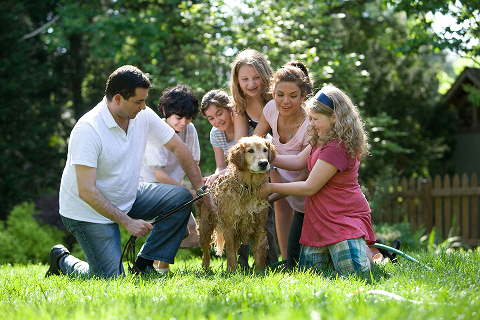
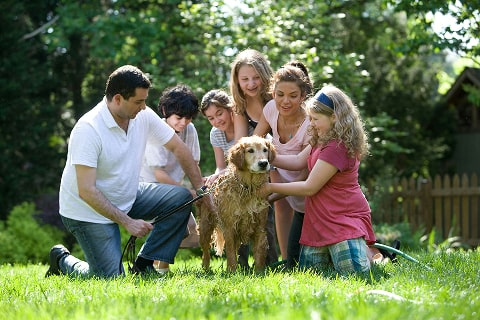
fixed carousel overflow. fixed cookies modal container stopping access to carousel buttons on small screens. optimized use of Image tags. optimized image assets

diff --git a/app/packages/page.jsx b/app/packages/page.jsx
@@ -33,35 +33,40 @@ const packages = [
     description: "Choose your favourite image to be printed at 12 x 8”.",
     price: 60,
     type: "print",
-    thumbnailPath: "/images/packages/classic.jpg"
+    thumbnailPath: "/images/packages/classic.jpg",
+    alt: "Printed photo of bride and groom"
   },
   {
     name: "Extra Large",
     description: "Choose your favourite image to be printed at 18 x 12”.",
     price: 80,
     type: "print",
-    thumbnailPath: "/images/packages/xlarge.jpg"
+    thumbnailPath: "/images/packages/xlarge.jpg",
+    alt: "Printed photo of baby hanging on wall"
   },
   {
     name: "Big Value Bundle",
     description: "Choose your favourite image to be printed at 18 x 12” plus 2 others at 12x8″.",
     price: 125,
     type: "print",
-    thumbnailPath: "/images/packages/bigvaluebundle.jpg"
+    thumbnailPath: "/images/packages/bigvaluebundle.jpg",
+    alt: "Printed photos scattered"
   },
   {
     name: "10 Pack",
     description: "Choose your ten favourite images online, in your own time and in the peace of your own home. Your chosen images will be fully retouched and supplied digitally.",
     price: 190,
     type: "digital",
-    thumbnailPath: "/images/packages/10digital.jpg"
+    thumbnailPath: "/images/packages/10digital.jpg",
+    alt: "Woman happy smiling on sofa"
   },
   {
     name: "20 Pack",
     description: "Choose your 25 favourite images online, in your own time and in the peace of your own home. Your chosen images will be fully retouched and supplied digitally.",
     price: 250,
     type: "digital",
-    thumbnailPath: "/images/packages/20digital.jpg"
+    thumbnailPath: "/images/packages/20digital.jpg",
+    alt: "Woman pleased with photos on her phone"
   },
 ];
 
@@ -76,7 +81,7 @@ export default function Packages() {
       {/*    HERO / PRINTS    */}
 
       <section className="relative text-white min-h-dvh py-40 flex flex-col gap-18 items-center justify-center">
-        <Image src="/images/packages/packages-hero.jpg" alt="test" fill={true} priority={true} className="absolute select-none brightness-50 object-cover" />
+        <Image src="/images/packages/packages-hero.jpg" alt="beautiful orange sunset over mountainous landscape" fill sizes="100vw" priority className="absolute select-none brightness-50 object-cover" />
         
         <div className="z-10 text-center w-10/12 lg:w-1/2">
           <h1 className="font-imperial-script text-2-xl mb-4">Affordable, personalized packages</h1>
@@ -99,7 +104,7 @@ export default function Packages() {
       {/*    DIGITALS    */}
 
       <section className="relative min-h-[700px] py-20 flex items-center justify-center">
-        <img src="/images/packages/packages-digital-bg.jpg" alt="" className="absolute w-full h-full object-cover select-none brightness-50" />
+        <Image placeholder="empty" fill sizes="100vw" src="/images/packages/packages-digital-bg.jpg" alt="Young family on a walk in a field" className="absolute w-full h-full object-cover select-none brightness-50" />
 
         <div className="z-10 w-10/12 lg:w-8/12 flex flex-col gap-12">
           <h1 className="font-imperial-script text-center text-2-xl text-white">Digitals</h1>

diff --git a/app/weddings/page.jsx b/app/weddings/page.jsx
@@ -42,7 +42,7 @@ export default async function Weddings() {
       {/*    HERO    */}
 
       <section className="relative text-white h-dvh md:h-[700px] flex items-center justify-center text-xl">
-        <Image src="/images/weddings/weddings-hero.jpg" alt="Bride and groom on a mountain looking towards the horizon" fill={true} priority={true} className="absolute select-none brightness-50 object-cover" />
+        <Image src="/images/weddings/weddings-hero.jpg" alt="Bride and groom on a mountain looking towards the horizon" fill sizes="100vw" priority className="absolute select-none brightness-50 object-cover" />
         <h1 className="z-10 text-2-lg text-center px-5">Jo's Wedding Photography</h1>
       </section>
 
@@ -52,8 +52,8 @@ export default async function Weddings() {
       <section className="relative z-100 flex flex-col lg:flex-row gap-10 lg:gap-0 w-10/12 -mt-40 pb-20 mx-auto">
 
         <div className="w-full lg:w-1/2">
-          <div className="w-4/5 aspect-[2/3] flex items-center justify-center mx-auto bg-gray-300 shadow-lg">
-            <img className="w-full h-full object-cover" src="/images/weddings/featured-1.jpg" alt="" />
+          <div className="w-4/5 aspect-[2/3] flex items-center justify-center mx-auto bg-gray-300 shadow-lg relative">
+            <Image placeholder="empty" fill sizes="(min-width:1024px) 50vw, (max-width:1023px) 70vw" priority className="w-full h-full object-cover" src="/images/weddings/featured-1.jpg" alt="newly wed bride and groom" />
           </div>
         </div>
 
@@ -61,8 +61,8 @@ export default async function Weddings() {
           <p>Intuition and spontaneity are two key ingredients that I believe are crucial in making a great wedding photographer - the third ingredient is experience.</p>
           <p>Experience to know how to get great shots in pouring rain and gloomy light. The experience to know where to position yourself to get key shots during a day that might have been years in the planning. The experience to know how to get the very best from you and your guests.</p>
 
-          <div className="w-full aspect-[3/2] flex items-center justify-center mx-auto bg-gray-300 shadow-lg">
-            <img className="w-full h-full object-cover" src="/images/weddings/featured-2.jpg" alt="" />
+          <div className="w-full aspect-[3/2] flex items-center justify-center mx-auto bg-gray-300 shadow-lg relative">
+            <Image placeholder="empty" fill sizes="(min-width:1024px) 50vw, (max-width:1023px) 80vw" className="w-full h-full object-cover" src="/images/weddings/featured-2.jpg" alt="newly wed bride and groom celebrating" />
           </div>
         
         </div>

diff --git a/app/testimonials/page.jsx b/app/testimonials/page.jsx
@@ -34,7 +34,7 @@ export default function Testimonials() {
       {/*    HERO    */}
 
       <section className="relative text-white min-h-[700px] flex flex-col gap-12 md:gap-6 py-40 items-center justify-center">
-        <Image src="/images/testimonials/testimonials-hero.jpg" alt="Bride and groom walking into the sunset on the beach" fill={true} priority={true} className="absolute select-none brightness-50 object-cover" />
+        <Image src="/images/testimonials/testimonials-hero.jpg" alt="Bride and groom walking into the sunset on the beach" fill sizes="100vw" priority className="absolute select-none brightness-50 object-cover" />
         <h1 className="font-imperial-script text-2-xl z-10 text-center">Hear from pleased clients</h1>
 
         <div className="z-10 w-8/12 flex flex-col md:flex-row gap-18 md:gap-0 items-center md:items-stretch justify-around">
@@ -59,8 +59,8 @@ export default function Testimonials() {
             </div>
             
             <div className="w-full md:w-1/2">
-              <div className="w-3/4 aspect-[3/2] ms-auto md:me-auto bg-gray-300 shadow-lg">
-                <img className="w-full h-full object-cover text-center text-black/30" src="/images/testimonials/featured-testimonial-1.jpg" alt="Image" />
+              <div className="w-3/4 aspect-[3/2] ms-auto md:me-auto bg-gray-300 shadow-lg relative">
+                <Image placeholder="empty" fill sizes="(min-width:1024px) 40vw, (max-width:1023px) 70vw" className="w-full h-full object-cover text-center text-black/30" src="/images/testimonials/featured-testimonial-1.jpg" alt="Family portrait around the family dog in the grass" />
               </div>
             </div>
           </div>
@@ -73,8 +73,8 @@ export default function Testimonials() {
             </div>
             
             <div className="w-full md:w-1/2">
-              <div className="w-3/4 aspect-[3/2] me-auto md:ms-auto bg-gray-300 shadow-lg">
-                <img className="w-full h-full object-cover text-center text-black/30" src="/images/testimonials/featured-testimonial-2.jpg" alt="Image" />
+              <div className="w-3/4 aspect-[3/2] me-auto md:ms-auto bg-gray-300 shadow-lg relative">
+                <Image placeholder="empty" fill sizes="(min-width:1024px) 40vw, (max-width:1023px) 70vw" className="w-full h-full object-cover text-center text-black/30" src="/images/testimonials/featured-testimonial-2.jpg" alt="Couple holding hands enjoying the outdoors" />
               </div>
             </div>
           </div>

diff --git a/app/family/page.jsx b/app/family/page.jsx
@@ -43,7 +43,7 @@ export default async function Family() {
       {/*    HERO    */}
 
       <section className="relative text-white h-dvh md:h-[700px] flex items-center justify-center text-xl">
-        <Image src="/images/family/family-hero.jpg" alt="Family lined up at the beach during sunset" fill={true} priority={true} className="absolute select-none brightness-50 object-cover" />
+        <Image src="/images/family/family-hero.jpg" alt="Family lined up at the beach during sunset" fill sizes="100vw" priority className="absolute select-none brightness-50 object-cover" />
         <h1 className="z-10 text-2-lg text-center px-5">Jo's Family Photography</h1>
       </section>
 
@@ -53,8 +53,8 @@ export default async function Family() {
       <section className="relative z-100 flex flex-col lg:flex-row gap-10 lg:gap-0 w-10/12 -mt-40 pb-20 mx-auto">
 
         <div className="w-full lg:w-7/12">
-          <div className="aspect-[3/2] flex items-center justify-center mx-auto bg-gray-300 shadow-lg">
-            <img className="w-full h-full object-cover" src="/images/family/featured-1.jpg" alt="Man with baby girl on lap sitting on a dock" />
+          <div className="aspect-[3/2] flex items-center justify-center mx-auto bg-gray-300 shadow-lg relative">
+            <Image placeholder="empty" fill sizes="(min-width:1024px) 50vw, (max-width:1023px) 80vw" priority className="w-full h-full object-cover" src="/images/family/featured-1.jpg" alt="Man with baby girl on lap sitting on a dock" />
           </div>
         </div>
 

diff --git a/app/components/PackageCard.jsx b/app/components/PackageCard.jsx
@@ -1,6 +1,10 @@
 'use client';
 
 
+// components
+import Image from "next/image";
+
+
 export default function PackageCard({ pkg }) {
   return (
     <div className="bg-white/75 text-black flex flex-col items-center py-2 px-4 w-full sm:w-1/2 lg:w-[300px] shadow-lg">
@@ -9,8 +13,8 @@ export default function PackageCard({ pkg }) {
         <p>£{pkg.price}</p>
       </div>
       
-      <div className="w-full h-full aspect-[3/2] bg-gray-300">
-        <img className="w-full h-full aspect-[3/2] object-cover text-center text-black/30" src={pkg.thumbnailPath || null} alt="" />
+      <div className="w-full h-full aspect-[3/2] bg-gray-300 relative">
+        <Image placeholder="empty" fill sizes="(min-width:1024px) 30vw, (min-width:640px) 60vw, (max-width: 639px) 80vw" priority className="w-full h-full aspect-[3/2] object-cover text-center text-black/30" src={pkg.thumbnailPath || null} alt={pkg.alt} />
       </div>
 
       <p className="py-2 text-center">{pkg.description}</p>

diff --git a/app/components/Carousel.jsx b/app/components/Carousel.jsx
@@ -143,7 +143,7 @@ export default function Carousel() {
 
       {/*   SLIDES   */}
 
-      <section ref={slidesContainer} className="flex w-dvw h-full overflow-x-hidden scroll-smooth">
+      <section ref={slidesContainer} className="flex w-full h-full overflow-x-hidden scroll-smooth">
 
         {slides.map((slide, i) => (
           <div ref={(el) => slideRefs.current[i] = el} key={i} id={`slide-${i}`} className="w-dvw h-full relative flex-shrink-0">
@@ -152,7 +152,7 @@ export default function Carousel() {
               <h3 className="font-imperial-script">By Jo Smith</h3>
             </div>
 
-            <Image src={slide.imagePath} alt={slide.imageAlt} fill={true} priority={true} className="absolute select-none brightness-50 object-cover" />
+            <Image placeholder="empty" priority fill sizes="100vw" quality={100} src={slide.imagePath} alt={slide.imageAlt} className="absolute select-none brightness-50 object-cover" />
           </div>
         ))}
 

diff --git a/app/components/Navbar.jsx b/app/components/Navbar.jsx
@@ -40,7 +40,7 @@ export default function Navbar() {
     <div className="absolute z-[150] w-full">
       <nav className="font-imperial-script text-white text-2-lg w-10/12 flex flex-col lg:flex-row items-start lg:items-center justify-between pb-5 lg:py-5 mx-auto">
 
-        <div className={`${navbarActive ? "bg-black" : "bg-none"} lg:bg-transparent py-5 lg:py-0 w-full lg:w-fit flex justify-between lg:me-8 z-50`}>
+        <div className={`${navbarActive ? "bg-black" : "bg-none"} transition-colors lg:bg-transparent py-5 lg:py-0 w-full lg:w-fit flex justify-between lg:me-8 z-50`}>
           <Link href="/" className="lg:leading-8">Jo Smith Photography</Link>
           <p onClick={() => setNavbarActive(!navbarActive)} className="lg:hidden transition-colors hover:text-accent cursor-pointer flex items-center self-stretch"><i className={`bi ${navbarActive ? "bi-x" : "bi-list"}`}></i></p>
         </div>

diff --git a/app/components/Masonary.jsx b/app/components/Masonary.jsx
@@ -1,3 +1,7 @@
+// components
+import Image from "next/image";
+
+
 export default function Masonary({ images }) {
 
   // init cols array
@@ -20,8 +24,8 @@ export default function Masonary({ images }) {
             const aspectRatio = (imgI + colI) % 2 === 0 ? "aspect-[4/3]" : "aspect-[3/4]";
 
             return (
-              <div key={img.id} className={`overflow-hidden ${aspectRatio}`}>
-                <img src={img.url} alt={img.alt} className="w-full h-full object-cover" />
+              <div key={img.id} className={`overflow-hidden ${aspectRatio} relative`}>
+                <Image placeholder="empty" fill sizes="(min-width:1024px) 25vw, (max-width:1023px) 50vw" src={img.url} alt={img.alt} className="w-full h-full object-cover" />
               </div>
             );
 

diff --git a/app/contact/page.jsx b/app/contact/page.jsx
@@ -35,7 +35,7 @@ export default function Contact() {
       {/*    HERO    */}
 
       <section className="relative text-white min-h-[700px] flex flex-col gap-12 py-40 items-center justify-center">
-        <Image src="/images/contact/contact-hero.jpg" alt="Beautiful hazy mountainous landscape" fill={true} priority={true} className="absolute select-none brightness-50 object-cover" />
+        <Image src="/images/contact/contact-hero.jpg" alt="Beautiful hazy mountainous landscape" fill sizes="100vw" priority className="absolute select-none brightness-50 object-cover" />
         <h1 className="font-imperial-script text-2-xl z-10 text-center">Send me a message</h1>
 
         <div className="z-10 w-10/12 md:w-1/2 lg:w-2/6 text-black">

diff --git a/app/commercial/page.jsx b/app/commercial/page.jsx
@@ -42,7 +42,7 @@ export default async function Commercial() {
       {/*    HERO    */}
 
       <section className="relative text-white h-[300px] flex items-center justify-center text-xl">
-        <Image src="/images/commercial/commercial-hero.jpg" alt="Clean polished iphone resting on macbook" fill={true} priority={true} className="absolute select-none brightness-50 object-cover" />
+        <Image src="/images/commercial/commercial-hero.jpg" alt="Clean polished iphone resting on macbook" fill sizes="100vw" priority className="absolute select-none brightness-50 object-cover" />
         <h1 className="z-10 text-2-lg text-center px-5">Jo's Commercial Photography</h1>
       </section>
 

diff --git a/app/not-found.jsx b/app/not-found.jsx
@@ -1,11 +1,12 @@
 // components
+import Image from "next/image";
 import Link from "next/link";
 
 
 export default function NotFound() {
   return (
     <section className="relative text-white h-dvh flex flex-col gap-12 md:gap-6 py-40 items-center justify-center">
-      <img src="./testimonials/testimonials-hero.jpg" alt="" className="absolute w-full h-full object-cover select-none brightness-50" />
+      <Image fill sizes="100vw" priority src="/images/testimonials/testimonials-hero.jpg" alt="Bride and groom walking into the sunset on the beach" className="absolute w-full h-full object-cover select-none brightness-50" />
 
 
       <div className="z-10 text-center">

diff --git a/app/nature/page.jsx b/app/nature/page.jsx
@@ -42,7 +42,7 @@ export default async function Nature() {
       {/*    HERO    */}
 
       <section className="relative text-white h-[300px] flex items-center justify-center text-xl">
-        <Image src="/images/nature/nature-hero.jpg" alt="Beautiful Scottish mountainous landscape" fill={true} priority={true} className="absolute select-none brightness-50 object-cover" />
+        <Image src="/images/nature/nature-hero.jpg" alt="Beautiful Scottish mountainous landscape" fill sizes="100vw" priority className="absolute select-none brightness-50 object-cover" />
         <h1 className="z-10 text-2-lg text-center px-5">Jo's Nature Photography</h1>
       </section>
 
